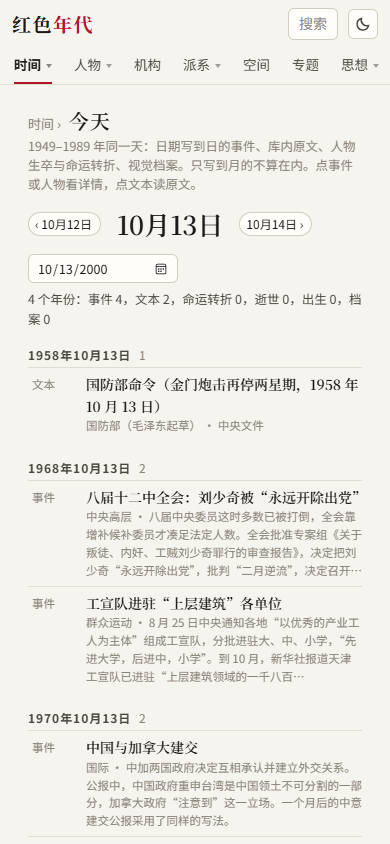
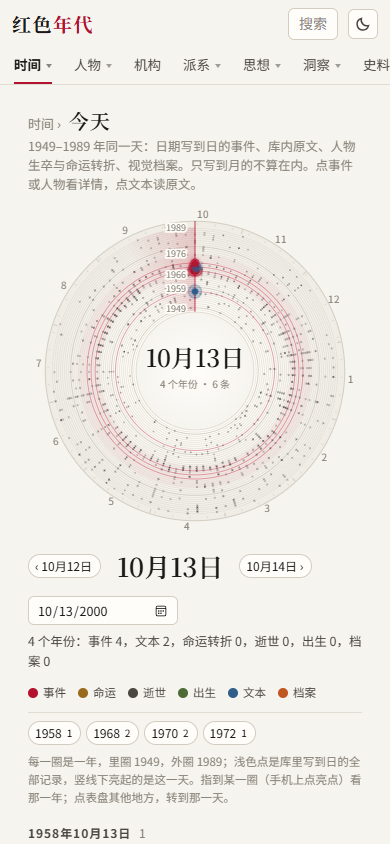
R6: README, audit and screenshots for R1-R5
README: scale table, tour and view groups follow the new menu (map under
sources, topics under research, no stance-moments), three new screenshots
(today dial, institutional paralysis, per-head output) and the phone shot
replaced. audit-v1.md gets a section on the R1-R6 revisions and what is still
missing.

diff --git a/README.md b/README.md
@@ -16,15 +16,15 @@
 | 事件 | 770 条，1949–1965 年 216、1966 年 67、1967–1969 年 159、1970–1976 年 169、1977–1989 年 159 |
 | 人物 | 301 人，255 人有分时期的完整传记；关系 301 条；派系 23 个；机构 611 个 |
 | 思想 | 概念 27 个、主义与路线 44 条，报刊词频 36 个口号 |
-| 数字 | 数字争议 24 案、按县登记 160 个县市、经济与人口序列 25 条，全部注明口径 |
-| 研究 | 研究结论 70 条（每个时期至少 10 条）、专题长文 7 篇，引文全部逐字核对 |
+| 数字 | 数字争议 24 案、按县登记 160 个县市、经济与人口序列 25 条（其中 11 条另有国家统计局 1949–1989 年回溯数），全部注明口径 |
+| 研究 | 研究结论 70 条（每个时期至少 10 条）、长文 7 篇、专题 9 个，引文全部逐字核对 |
 | 视觉档案 | 464 条，图像 272 张，逐条登记出处与版权 |
 
 完整性审计见 [`research/audit-v1.md`](research/audit-v1.md)：各里程碑的数量验收全部达标；没有达到的是“待核”事件（63 条）与多声部并列的比例，原因和下一步都写在审计里。
 
 ## 怎样看：一条导览路线
 
-1. **[今天](https://andyuneducated.github.io/red-decade/#/today)**：首页列出 1949–1989 年里与今天同月同日的事件、文件和人物命运。
+1. **[今天](https://andyuneducated.github.io/red-decade/#/today)**：首页是一面年轮表盘：41 圈对应 1949–1989 年，表盘转到今天，指针下有记录的年份亮起；指向一圈读那一年，点表盘别处转到那一天。下方列出同月同日的事件、文件和人物命运。
 2. **[时间线](https://andyuneducated.github.io/red-decade/#/timeline)**：八条泳道，从四十年缩放到一天。点 1966 年 5 月 16 日的《五一六通知》，抽屉里是摘要、各声部的说法和原文出处。
 3. **[原文](https://andyuneducated.github.io/red-decade/#/docs/ws-1966-05-16-notice)**：在阅读器里打开通知本身，和《二月提纲》逐条对照。
 4. **[人物](https://andyuneducated.github.io/red-decade/#/people/liu-shaoqi)**：刘少奇的传记页，职务时间带、命运色带、足迹地图，每段生平附出处；点“以此人视角看全站”，时间线、网络、文献等页面就只显示与他有关的内容。
@@ -39,16 +39,14 @@
 
 | 组 | 视图 |
 |---|---|
-| 时间 | 今天（历史上的今天）、时间线（多泳道、国际对照层、命运脉搏） |
+| 时间 | 今天（年轮表盘与历史上的今天）、时间线（多泳道、国际对照层、命运脉搏） |
 | 人物 | 名录与传记页、关系网络（随时间变化）、命运矩阵 |
 | 机构 | 机构目录与机构页：隶属随时间变化、历任负责人、按派系着色 |
 | 派系 | 派系消长、派系与机构、派系档案 |
-| 空间 | 革委会地图：省、县两级，可按月播放，叠加按县登记的死亡数字 |
-| 专题 | 民族与宗教、港澳台、全球 |
 | 思想 | 主义谱系、光谱漂移、主义词频、报刊词频、概念 × 文献 |
-| 洞察 | 词义漂移、权威来源、口号传播、归因追踪、检讨文体、论战图、生存曲线、加害与受害重叠、平行人生、表态时刻、派系流转、说辞重合、机构瘫痪、政策与结果 |
-| 史料 | 文献阅读器、视觉档案、数字争议、经济与人口、叙事对照、开放数据 |
-| 研究 | 专题长文、研究结论与来源登记 |
+| 洞察 | 词义漂移、权威来源、口号传播、归因追踪、检讨文体、论战图、生存曲线、加害与受害重叠、平行人生、派系流转、说辞重合、机构瘫痪（省委停止运转、省县革委会成立进度）、人均产量（当时公布与后来回溯并列） |
+| 史料 | 文献阅读器、视觉档案、地图（革委会省、县两级，可按月播放，叠加按县登记的死亡数字）、数字争议、经济与人口、叙事对照、开放数据 |
+| 研究 | 长文、专题（民族与宗教、港澳台、全球、大规模暴力、大饥荒、知青上山下乡、平反与审判、异见与思想审判、出身与成分）、结论与来源 |
 
 任何人物、事件、概念都可以点开详情卡片，`Ctrl K` 全局搜索。界面在电脑（1440×900）和手机（390×844）两种尺寸下检查；网络、命运矩阵等复杂图表在手机上需要横向拖动。
 
@@ -56,6 +54,7 @@
 |---|---|---|
 | ![人物传记页](docs/screenshots/person.png) | ![关系网络](docs/screenshots/network.png) | ![革委会地图](docs/screenshots/map.png) |
 | ![数字争议](docs/screenshots/figures.png) | ![主义谱系](docs/screenshots/lineage.png) | ![专题长文](docs/screenshots/essay.png) |
+| ![今天：年轮表盘](docs/screenshots/today.png) | ![机构瘫痪](docs/screenshots/paralysis.png) | ![人均产量：当时公布与后来回溯](docs/screenshots/outcomes.png) |
 
 <p>
 <img src="docs/screenshots/today-phone.png" alt="手机：历史上的今天" width="240">

diff --git a/research/progress.md b/research/progress.md
@@ -14,7 +14,7 @@
 | R3 | 机构瘫痪：湖北、广东、河北、云南四个省委补停止活动时期（革委会成立至 1970–1971 年恢复）；河北省革委会补接管省委；省革委会的接管关系自动引用其成立报道。县市革委会成立日期从 56 个增加到 104 个（重抓 45 个 CCRD 县志页，广西、湖南为主，另补济宁），洞察页加“县革委会”刻度行和“成立进度”累计图（省级与山东、广西县市对比），附逐条原文。缺口：中央部委军管在库内史料中只有零星提及，未建档 | ✔ |
 | R4 | 人均产量：新增点类型 `retro`（后来官方·回溯）。粮食、棉花、油料、钢（粗钢）、布、水泥、原油、发电量和年末人口、出生率、死亡率共 11 个序列补 1949–1989 年逐年数（451 个点），取自聚汇数据网页转录的国家统计局数据库（`research/manifests/r4-retro.yaml`，tier 2，注“转录，未核原书”）；`fetch-web` 加 `rows` 选项，表格每行一段。人口、出生率、死亡率与《新中国五十年统计资料汇编》表 A-1 扫描件（登记为 `nbs-50-years`）逐年比对：人口一致，1961–1977 年出生率、死亡率比 1999 年版高 0.02–0.23 个千分点，写入 caveats。人均＝回溯产量 ÷ 回溯人口，与当时数分开算；人均页加回溯线、逐年对照表和“相差最大的年份”；经济与人口页加金色回溯线。缺口：糖、生铁、化肥、原煤（转录页 1965 年数疑误）没有回溯数 | ✔ |
 | R5 | 首页“今天”：年轮表盘（`TodayRings.tsx`）。41 圈＝1949–1989 年，里圈 1949；圈上浅色点是库里写到日的全部记录，表盘随日期转动（最短方向），当天顶端指针下有记录的年份点亮成发光点（颜色按事件、文本、命运、生卒、档案），整圈描一道浅红；1966–1976 底色加深。指向某圈看那一年（手机上点亮点），点表盘其他位置转到那一天；中心大字日期。跟随明暗主题，减少动画偏好下不转不闪；手机上刻度、点合并。下方原列表保留 | ✔ |
-| R6 | README、审计、截图更新 | 待做 |
+| R6 | README：规模表、导览、视图分组按新菜单改写，截图加今天、机构瘫痪、人均产量三张，手机截图换成表盘；`audit-v1.md` 加第四节记 R1–R6 的变化与仍缺的部分 | ✔ |
 
 ## 已完成：M11（v1.0 完整性审计与作品集）
 

diff --git a/research/audit-v1.md b/research/audit-v1.md
@@ -98,3 +98,16 @@
 - **地图的派系与武斗两层**：需要成系统的县级派系与武斗记录。
 - **外国档案**：英国国家档案馆、苏联档案。
 - **旧 id 跳转**（M10 遗留）：改名只记在 `moved.json`，站内旧网址不跳转。
+
+## 四、审计后的修订（R1–R6，2026-10-14）
+
+逐阶段记录见 `progress.md` 的 R 表。对上文的影响：
+
+| 项 | 变化 | 仍缺 |
+|---|---|---|
+| 菜单 | “空间”“专题”两组取消：地图归史料，专题归研究；洞察删去“表态时刻”（内容太少） | |
+| 专题 | 3 个增加到 9 个，新增大规模暴力、大饥荒、知青上山下乡、平反与审判、异见与思想审判、出身与成分，全部由库内事件与结论组成；专题正文的引文也逐字核对 | |
+| 机构瘫痪 | 湖北、广东、河北、云南四个省委补停止活动时期；县市革委会成立日期 56 → 104 个；加成立进度累计图 | 中央部委军管没有成系统的原文，未建档 |
+| 经济与人口、人均产量 | 11 个序列补国家统计局 1949–1989 年回溯数（451 个点，口径“后来官方·回溯”，网页转录、未核原书）；人口与出生、死亡率和《新中国五十年统计资料汇编》表 A-1 扫描件比对；人均分当时与回溯两套算 | 糖、生铁、化肥、原煤没有回溯数；原书未核 |
+| 今天 | 首页改为年轮表盘，原列表保留 | |
+| 归因追踪 | 默认打开最早的事件 | |
